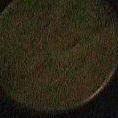
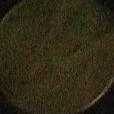
corrige o blur

diff --git a/detectCoin.py b/detectCoin.py
@@ -13,7 +13,7 @@ save_img = img.copy()
 gray = cv2.cvtColor( shifted, cv2.COLOR_BGR2GRAY)
 
 gray_blur = cv2.GaussianBlur(gray, (15, 15), 0)
-_,thresh = cv2.threshold(gray, 0, 255, cv2.THRESH_OTSU)
+_,thresh = cv2.threshold(gray_blur, 0, 255, cv2.THRESH_OTSU)
 
 gray = thresh
 
